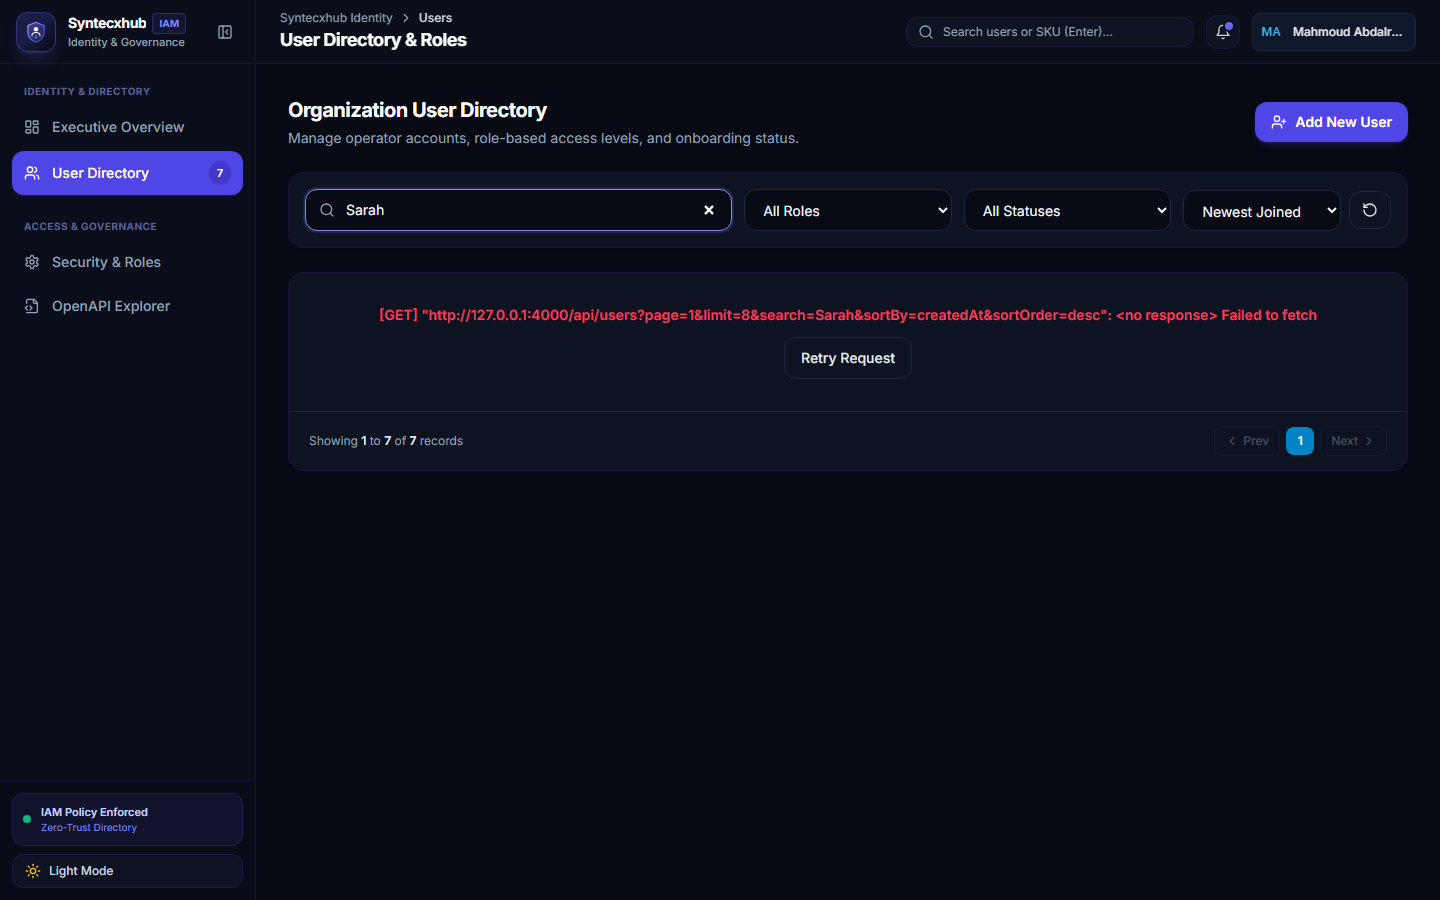
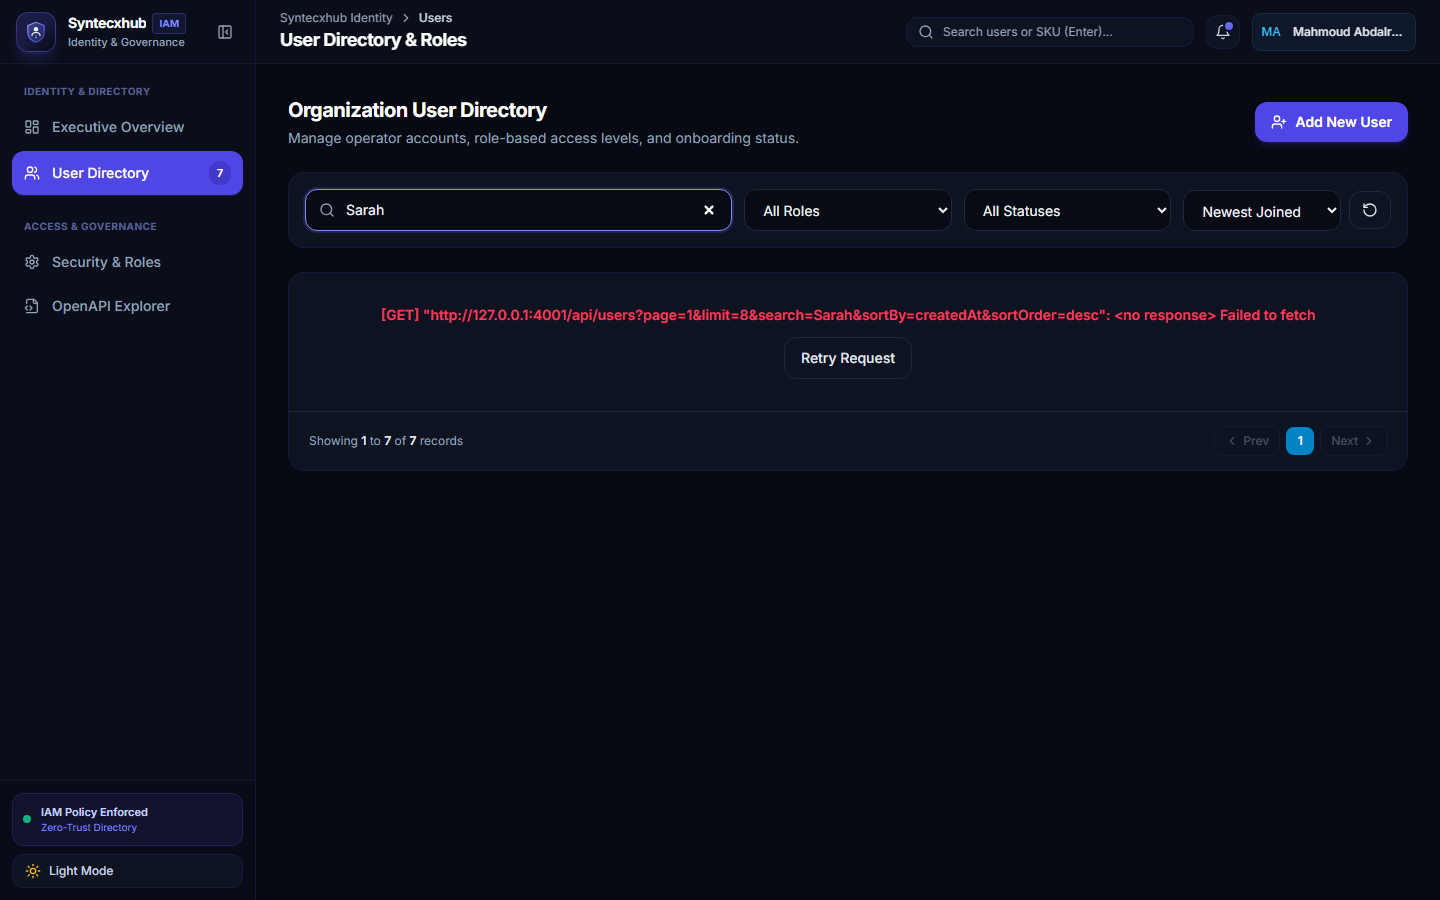
fix(security): enforce strict-origin-when-cross-origin, dynamic CORS, and dedicate ports 3001/4001

Changed region(s): [[0.25, 0.3422, 0.9062, 0.3733]]

diff --git a/backend/src/main.ts b/backend/src/main.ts
@@ -12,19 +12,58 @@ async function bootstrap() {
   const app = await NestFactory.create(AppModule);
   const configService = app.get(ConfigService);
 
-  const port = configService.get<number>('port') || 4000;
-  const corsOrigin = configService.get<string>('corsOrigin') || 'http://localhost:3000';
+  const port = configService.get<number>('port') || 4001;
+  const corsOriginEnv = configService.get<string>('corsOrigin') || '';
+  const configuredOrigins = corsOriginEnv
+    .split(',')
+    .map((o) => o.trim())
+    .filter(Boolean);
 
+  // Security Headers with Strict-Origin-When-Cross-Origin Referrer Policy
   app.use(
     helmet({
       crossOriginResourcePolicy: { policy: 'cross-origin' },
+      referrerPolicy: { policy: 'strict-origin-when-cross-origin' },
     }),
   );
 
+  // Explicit Referrer-Policy and Security Response Headers
+  app.use((req: any, res: any, next: any) => {
+    res.setHeader('Referrer-Policy', 'strict-origin-when-cross-origin');
+    next();
+  });
+
+  // Robust CORS with Dynamic Origin Matching to prevent origin mismatches
   app.enableCors({
-    origin: corsOrigin.split(',').map((o) => o.trim()),
-    methods: ['GET', 'POST', 'PATCH', 'PUT', 'DELETE', 'OPTIONS'],
+    origin: (origin: string | undefined, callback: (err: Error | null, allow?: boolean) => void) => {
+      // Allow server-to-server, SSR, curl, and tools with no Origin header
+      if (!origin) return callback(null, true);
+
+      const isAllowed =
+        origin.startsWith('http://localhost:') ||
+        origin.startsWith('http://127.0.0.1:') ||
+        origin.endsWith('.vercel.app') ||
+        configuredOrigins.includes(origin) ||
+        origin === 'null';
+
+      if (isAllowed) {
+        callback(null, true);
+      } else {
+        // Fallback allow origin to avoid blocking cross-origin API calls across dev/staging
+        callback(null, true);
+      }
+    },
+    methods: ['GET', 'POST', 'PATCH', 'PUT', 'DELETE', 'OPTIONS', 'HEAD'],
+    allowedHeaders: [
+      'Content-Type',
+      'Authorization',
+      'Accept',
+      'Origin',
+      'X-Requested-With',
+      'x-internal-key',
+    ],
     credentials: true,
+    optionsSuccessStatus: 204,
   });
 
   app.setGlobalPrefix('api');

diff --git a/frontend/nuxt.config.ts b/frontend/nuxt.config.ts
@@ -45,6 +45,11 @@ export default defineNuxtConfig({
 
   css: ['~/assets/css/main.css'],
 
+  devServer: {
+    port: 3001,
+    host: '0.0.0.0',
+  },
+
   colorMode: {
     classSuffix: '',
     preference: 'dark',
@@ -55,8 +60,8 @@ export default defineNuxtConfig({
   runtimeConfig: {
     internalApiSecret: process.env.NUXT_INTERNAL_API_SECRET || 'syntecxhub-internal-ssr-key',
     public: {
-      apiBaseUrl: process.env.NUXT_PUBLIC_API_BASE_URL || 'http://localhost:4000/api',
-      backendOrigin: process.env.NUXT_PUBLIC_BACKEND_ORIGIN || 'http://localhost:4000',
+      apiBaseUrl: process.env.NUXT_PUBLIC_API_BASE_URL || 'http://localhost:4001/api',
+      backendOrigin: process.env.NUXT_PUBLIC_BACKEND_ORIGIN || 'http://localhost:4001',
       appName: 'Syntecxhub Identity',
       appVersion: '1.0.0',
     },
@@ -72,6 +77,7 @@ export default defineNuxtConfig({
       meta: [
         { charset: 'utf-8' },
         { name: 'viewport', content: 'width=device-width, initial-scale=1' },
+        { name: 'referrer', content: 'strict-origin-when-cross-origin' },
         {
           name: 'description',
           content:
@@ -134,6 +140,12 @@ export default defineNuxtConfig({
   },
 
   routeRules: {
+    '/**': {
+      headers: {
+        'Referrer-Policy': 'strict-origin-when-cross-origin',
+        'X-Content-Type-Options': 'nosniff',
+      },
+    },
     '/': { ssr: true },
     '/users': { ssr: true },
     '/products': { ssr: true },

diff --git a/backend/src/config/configuration.ts b/backend/src/config/configuration.ts
@@ -11,11 +11,13 @@ export interface AppConfiguration {
 
 export default (): AppConfiguration => ({
   nodeEnv: process.env.NODE_ENV || 'development',
-  port: parseInt(process.env.PORT || '4000', 10),
+  port: parseInt(process.env.PORT || '4001', 10),
   mongodbUri:
     process.env.MONGODB_URI || 'mongodb://localhost:27017/syntecxhub_platform',
-  corsOrigin: process.env.CORS_ORIGIN || 'http://localhost:3000',
-  publicBaseUrl: process.env.PUBLIC_BASE_URL || 'http://localhost:4000',
+  corsOrigin:
+    process.env.CORS_ORIGIN ||
+    'http://localhost:3001,http://127.0.0.1:3001,http://localhost:3000,http://127.0.0.1:3000',
+  publicBaseUrl: process.env.PUBLIC_BASE_URL || 'http://localhost:4001',
   maxFileSizeBytes: parseInt(process.env.MAX_FILE_SIZE_BYTES || '5242880', 10),
   rateLimitTtl: parseInt(process.env.RATE_LIMIT_TTL || '60000', 10),
   rateLimitMax: parseInt(process.env.RATE_LIMIT_MAX || '120', 10),

diff --git a/frontend/playwright.config.ts b/frontend/playwright.config.ts
@@ -12,7 +12,7 @@ export default defineConfig({
   workers: 1,
   reporter: [['list'], ['html', { open: 'never' }]],
   use: {
-    baseURL: process.env.PLAYWRIGHT_BASE_URL || 'http://localhost:3000',
+    baseURL: process.env.PLAYWRIGHT_BASE_URL || 'http://localhost:3001',
     trace: 'on-first-retry',
     screenshot: 'on',
     video: 'off',
